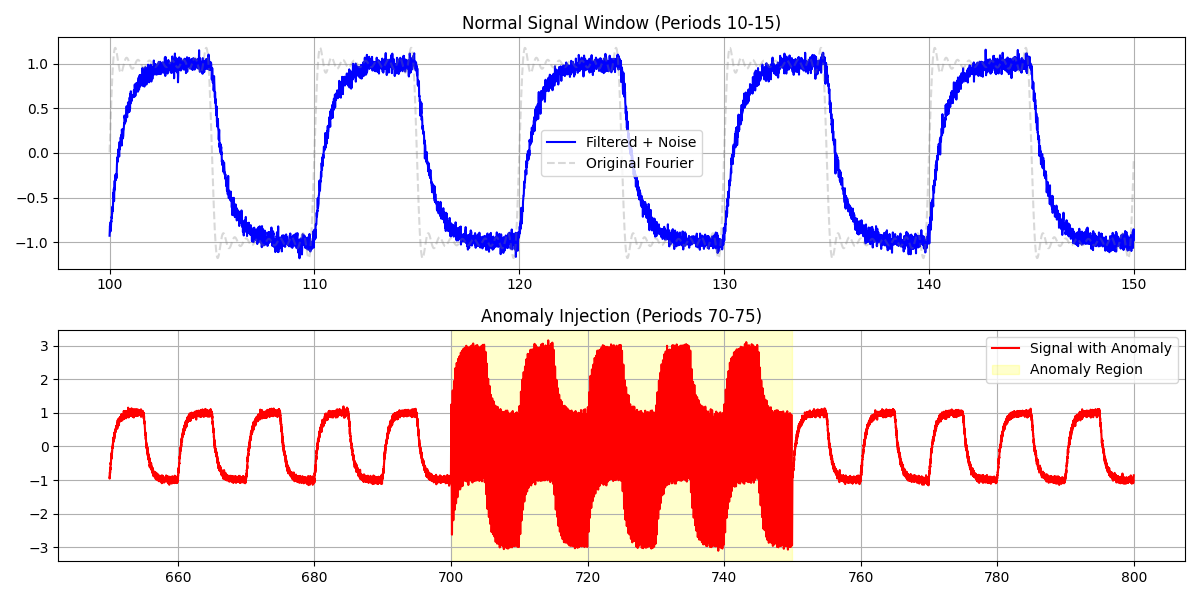
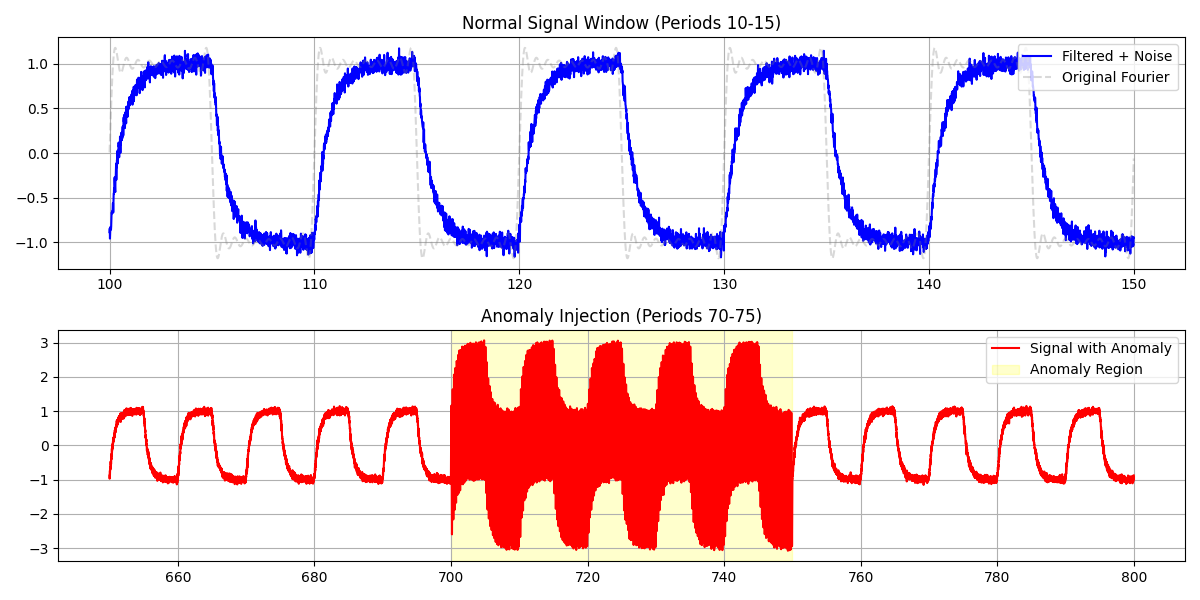
Fix: Adjusted legend position in data_feed.png to upper right

diff --git a/src/data_generator.py b/src/data_generator.py
@@ -61,7 +61,7 @@ def generate_data():
     plt.plot(t[mask_normal], noisy_signal[mask_normal], label="Filtered + Noise", color="blue")
     plt.plot(t[mask_normal], signal[mask_normal], label="Original Fourier", alpha=0.3, linestyle="--", color="gray")
     plt.title("Normal Signal Window (Periods 10-15)")
-    plt.legend()
+    plt.legend(loc="upper right")
     plt.grid(True)
     
     # Anomaly window (Periods 65-80)
@@ -70,7 +70,7 @@ def generate_data():
     plt.plot(t[mask_anomaly], noisy_signal[mask_anomaly], label="Signal with Anomaly", color="red")
     plt.axvspan(70 * T_val, 75 * T_val, color='yellow', alpha=0.2, label="Anomaly Region")
     plt.title("Anomaly Injection (Periods 70-75)")
-    plt.legend()
+    plt.legend(loc="upper right")
     plt.grid(True)
     
     plt.tight_layout()
